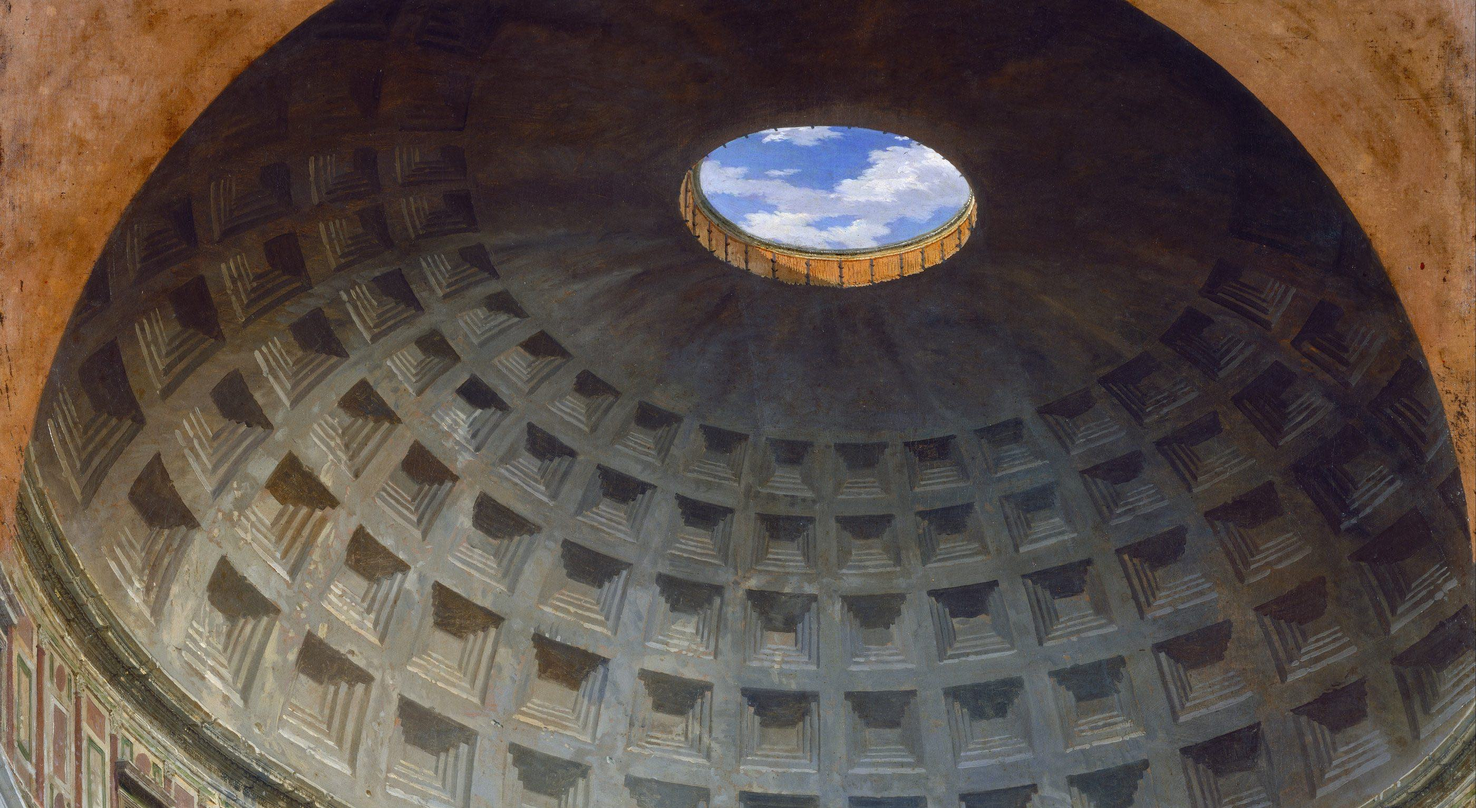
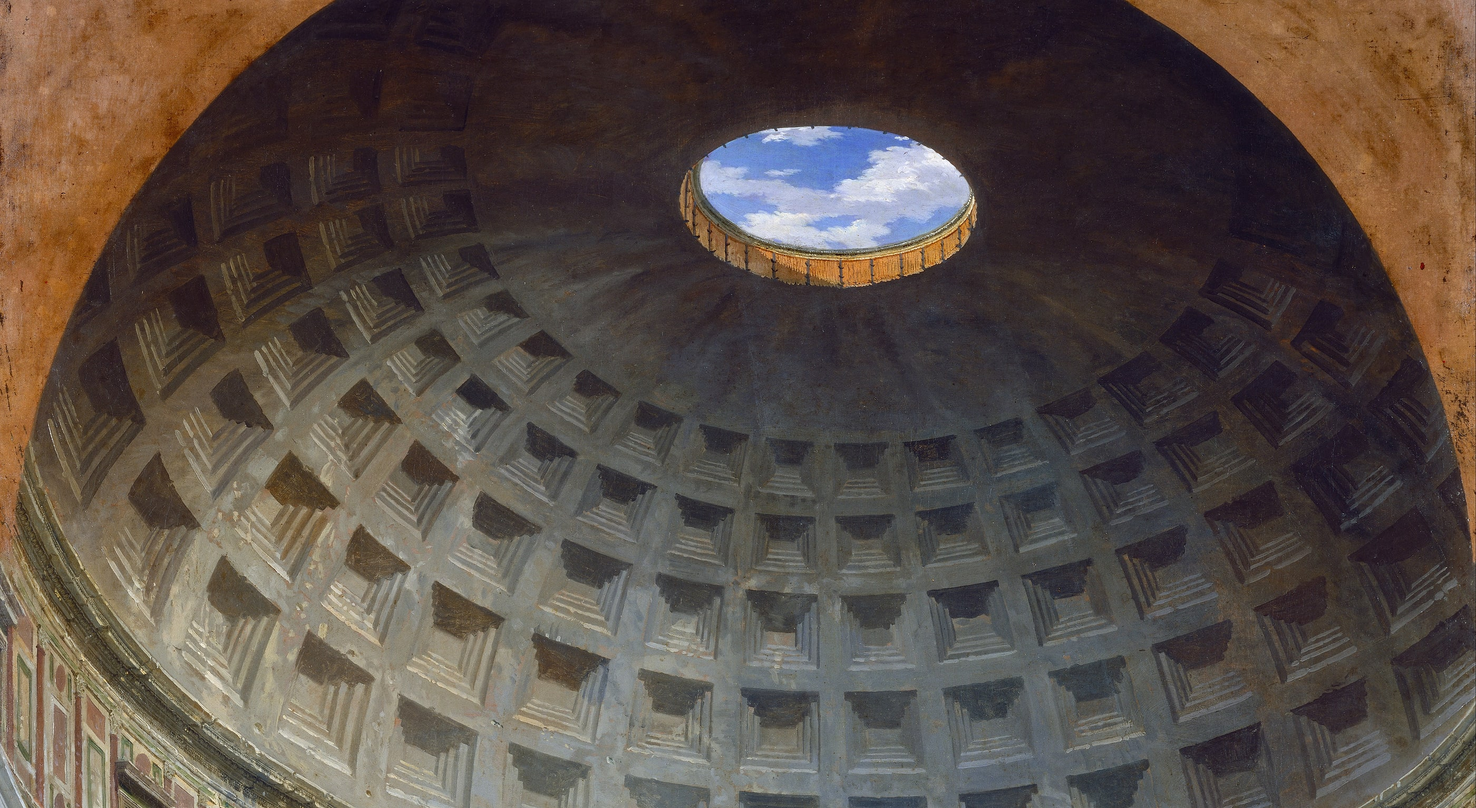
feat(v3.1): lighter hero painting, shade only behind the words; re-exported paintings
Owner option 1: brightness 0.95 and a soft ellipse behind the chip, title,
sub line and CTA plus a low band under the agent marks, on desktop and phone.
The six paintings are re-exported from the full scans (mozjpeg q88), so the
byte budgets in the token test rise to match.

diff --git a/apps/frontend/app/components/landing/Hero.tsx b/apps/frontend/app/components/landing/Hero.tsx
@@ -5,11 +5,12 @@ import { CTA_INSTALL, HERO_SUB, HERO_TITLE } from '../../../lib/earnkit/site-cop
 import Money from '../site/Money';
 
 /**
- * The readability shade over the painting: light at the top, clear through the arches, deep under the words. On a phone
- * the words start higher in a 560px hero (the chip at about 40%), so the deep stop rises to 44% there (QA item 7).
+ * The readability shade, only behind the words (owner "option 1", 2026-10-22): a soft ellipse centred on the chip,
+ * title, sub line and CTA, and a low band under the agent marks; the arches and their sky stay clear. On a phone the
+ * words fill more of a 560px hero, so the ellipse is wider and a little higher.
  */
 const SHADE =
-  'bg-[linear-gradient(180deg,var(--ek-s-hero-shade)_0%,var(--ek-s-hero-shade-clear)_16%,var(--ek-s-hero-shade-clear)_24%,var(--ek-s-hero-shade-deep)_44%,var(--ek-s-hero-shade-end)_100%)] md:bg-[linear-gradient(180deg,var(--ek-s-hero-shade)_0%,var(--ek-s-hero-shade-clear)_22%,var(--ek-s-hero-shade-clear)_48%,var(--ek-s-hero-shade-deep)_72%,var(--ek-s-hero-shade-end)_100%)]';
+  'bg-[radial-gradient(ellipse_86%_44%_at_50%_63%,var(--ek-s-hero-halo)_0%,var(--ek-s-hero-halo-mid)_55%,var(--ek-s-hero-shade-clear)_100%),linear-gradient(180deg,var(--ek-s-hero-shade-clear)_82%,var(--ek-s-hero-band)_100%)] md:bg-[radial-gradient(ellipse_44%_36%_at_50%_68%,var(--ek-s-hero-halo)_0%,var(--ek-s-hero-halo-mid)_55%,var(--ek-s-hero-shade-clear)_100%),linear-gradient(180deg,var(--ek-s-hero-shade-clear)_84%,var(--ek-s-hero-band)_100%)]';
 
 /** The white CTA: a soft warm glow at rest; on hover a 1px lift (not under reduced motion) and a white ring. */
 const CTA =

diff --git a/apps/frontend/lib/earnkit/v31-site-landing.test.ts b/apps/frontend/lib/earnkit/v31-site-landing.test.ts
@@ -280,6 +280,18 @@ test('(g) the hero painting: srcset of the three files, fetchpriority high; the 
   assert.match(src, /getScreenCTM\(\)/);
 });
 
+test('(g2) owner "option 1": the painting at brightness 0.95; the shade is an ellipse behind the words and a low band, never a full-height dark gradient', () => {
+  const h = html(LANDING);
+  assert.match(h.match(/<img[^>]*hero-eckersberg[^>]*>/)?.[0] ?? '', /brightness\(0\.95\)_saturate\(1\.04\)_contrast\(1\.04\)/);
+  const hero = h.slice(0, h.indexOf('</section>'));
+  const shade = hero.match(/<div aria-hidden="true" class="absolute inset-0 -z-\[1\] ([^"]+)"/)?.[1] ?? '';
+  // Phone and desktop: each one ellipse on the words plus a band under the marks.
+  assert.equal((shade.match(/radial-gradient\(ellipse_/g) ?? []).length, 2, shade);
+  assert.equal((shade.match(/var\(--ek-s-hero-band\)_100%/g) ?? []).length, 2, shade);
+  assert.doesNotMatch(shade, /hero-shade-deep|hero-shade-end/);
+  for (const t of ['heroHalo', 'heroHaloMid', 'heroBand'] as const) assert.match(SITE[t], /^rgba\(\d+,\d+,\d+,0\.\d+\)$/);
+});
+
 test('(h) the landing colours are SITE tokens: the new card text pairs pass 4.5:1', () => {
   const lum = (hex: string) => {
     const c = [1, 3, 5].map((i) => parseInt(hex.slice(i, i + 2), 16) / 255).map((v) => (v <= 0.03928 ? v / 12.92 : ((v + 0.055) / 1.055) ** 2.4));

diff --git a/apps/frontend/lib/earnkit/site-theme.ts b/apps/frontend/lib/earnkit/site-theme.ts
@@ -112,10 +112,11 @@ export const SITE = {
   footCtaGlow: 'rgba(255,150,70,0.5)',
   /** Task 6: the landing (Landing board): the hero's base, readability shade, title shadow and CTA glow; the arch light's dusk tint and sunset; the blue and rust program card borders. */
   heroBase: '#0B0907',
-  heroShade: 'rgba(8,7,14,0.35)',
   heroShadeClear: 'rgba(8,7,14,0)',
-  heroShadeDeep: 'rgba(8,7,14,0.72)',
-  heroShadeEnd: 'rgba(5,6,13,0.96)',
+  /** Owner "option 1" (2026-10-22): the shade only behind the words, a halo (centre, mid) and a low band under the agent marks. */
+  heroHalo: 'rgba(8,7,14,0.62)',
+  heroHaloMid: 'rgba(8,7,14,0.38)',
+  heroBand: 'rgba(5,6,13,0.55)',
   /** QA item 7: the hero's money chip on a phone, a dark glass so its words hold over the painting's sky. */
   heroChipPhone: 'rgba(8,7,14,0.42)',
   heroTitleShadow: 'rgba(5,6,13,0.7)',

diff --git a/apps/frontend/tailwind.config.ts b/apps/frontend/tailwind.config.ts
@@ -133,10 +133,10 @@ export default {
         's-foot-glow-mid': 'var(--ek-s-foot-glow-mid)',
         's-foot-cta-glow': 'var(--ek-s-foot-cta-glow)',
         's-hero-base': 'var(--ek-s-hero-base)',
-        's-hero-shade': 'var(--ek-s-hero-shade)',
         's-hero-shade-clear': 'var(--ek-s-hero-shade-clear)',
-        's-hero-shade-deep': 'var(--ek-s-hero-shade-deep)',
-        's-hero-shade-end': 'var(--ek-s-hero-shade-end)',
+        's-hero-halo': 'var(--ek-s-hero-halo)',
+        's-hero-halo-mid': 'var(--ek-s-hero-halo-mid)',
+        's-hero-band': 'var(--ek-s-hero-band)',
         's-hero-chip-phone': 'var(--ek-s-hero-chip-phone)',
         's-hero-title-shadow': 'var(--ek-s-hero-title-shadow)',
         's-cta-glow': 'var(--ek-s-cta-glow)',

diff --git a/apps/frontend/lib/earnkit/v31-site-tokens.test.ts b/apps/frontend/lib/earnkit/v31-site-tokens.test.ts
@@ -96,10 +96,10 @@ const jpegWidth = (b: Buffer): number | null => {
 
 test('(d) the six paintings are JPEGs at their widths and under their byte budgets', () => {
   const files: [string, number, number][] = [
-    ['hero-eckersberg-3200.jpg', 3200, 900_000],
-    ['hero-eckersberg-1600.jpg', 1600, 300_000],
+    ['hero-eckersberg-3200.jpg', 3200, 1_700_000],
+    ['hero-eckersberg-1600.jpg', 1600, 400_000],
     ['hero-eckersberg-800.jpg', 800, 110_000],
-    ['foot-panini-2800.jpg', 2800, 600_000],
+    ['foot-panini-2800.jpg', 2800, 1_000_000],
     ['foot-panini-1400.jpg', 1400, 220_000],
     ['foot-panini-700.jpg', 700, 80_000],
   ];

diff --git a/apps/frontend/app/globals.css b/apps/frontend/app/globals.css
@@ -130,10 +130,10 @@
   --ek-s-foot-glow-mid: rgba(255,160,110,0.10);
   --ek-s-foot-cta-glow: rgba(255,150,70,0.5);
   --ek-s-hero-base: #0B0907;
-  --ek-s-hero-shade: rgba(8,7,14,0.35);
   --ek-s-hero-shade-clear: rgba(8,7,14,0);
-  --ek-s-hero-shade-deep: rgba(8,7,14,0.72);
-  --ek-s-hero-shade-end: rgba(5,6,13,0.96);
+  --ek-s-hero-halo: rgba(8,7,14,0.62);
+  --ek-s-hero-halo-mid: rgba(8,7,14,0.38);
+  --ek-s-hero-band: rgba(5,6,13,0.55);
   --ek-s-hero-chip-phone: rgba(8,7,14,0.42);
   --ek-s-hero-title-shadow: rgba(5,6,13,0.7);
   --ek-s-cta-glow: rgba(255,150,90,0.30);

diff --git a/apps/frontend/app/components/landing/HeroArt.tsx b/apps/frontend/app/components/landing/HeroArt.tsx
@@ -74,7 +74,7 @@ export default function HeroArt() {
         fetchPriority="high"
         decoding="async"
         alt=""
-        className={`${LAYER} object-cover [filter:brightness(0.82)_saturate(1.04)_contrast(1.04)]`}
+        className={`${LAYER} object-cover [filter:brightness(0.95)_saturate(1.04)_contrast(1.04)]`}
       />
       <svg ref={svg} viewBox="0 0 1600 1036" preserveAspectRatio="xMidYMid slice" aria-hidden="true" className={LAYER}>
         <defs>

diff --git a/apps/frontend/DESIGN.md b/apps/frontend/DESIGN.md
@@ -76,7 +76,8 @@ White pill `PILL_WHITE` and blue pill `PILL_BLUE` are 44px tall.
 ## Paintings
 
 Plain `<img srcSet>` of pre-sized JPEGs in `public/art` (no Next image optimizer: no new paid service, one file per
-width, cached by the CDN). Public domain, from the Google Art Project scans.
+width, cached by the CDN). Public domain, from the Google Art Project scans. Re-exported 2026-10-22 from the full scans
+(Panini from the 5401px Google Art Project scan), lanczos3 and a light sharpen, mozjpeg q88.
 
 | Where | Painting | Files |
 |---|---|---|
@@ -85,6 +86,9 @@ width, cached by the CDN). Public domain, from the Google Art Project scans.
 
 The footer's headline sits under the oculus at every width (the crop is 45% down from md and 59% across on a phone, the
 headline block drops below it), never on the bright sky. The footer's credit line is `site-copy.ts ART_CREDIT`: "Art: C.W. Eckersberg, 1815 · G.P. Panini, c. 1734". The hero
+painting sits at `brightness(0.95) saturate(1.04) contrast(1.04)` so the art reads crisp, with a shade only behind the
+words (owner "option 1", 2026-10-22): a soft ellipse centred on the chip, title, sub line and CTA (`hero-halo` to
+`hero-halo-mid` to clear) and a low band under the agent marks (`hero-band`); the arches and sky stay clear. It
 adds an SVG arch clip path and a sunset circle that follows the mouse; the footer a faint warm light that follows
 the mouse. The footer's only social link is X, https://x.com/EarnKitAI (owner-confirmed 2026-10-22).
 
@@ -100,8 +104,10 @@ Under `prefers-reduced-motion` all of them stop, and the pointer components atta
 Designed at 390px: no horizontal scroll, 16px side gutters (`px-4`), every tap target 44px or taller (a text link
 inside a line uses `INLINE_LINK`'s 44px hit area), 2-up feed stats, the profile's cards 28px radius, rails that wrap.
 A rail that scrolls sideways instead (feed weeks, leaderboard filters, the install sheet's agent tabs) fades its cut edge
-over 40px while it overflows (`FadeRail`, `SegTabs RAIL_FADE`). The landing hero's shade rises on a phone (deep from 44%,
-not 72%) and its money chip is dark glass (`hero-chip-phone`), so the chip, title and sub line hold over the painting.
+over 40px while it overflows (`FadeRail`, `SegTabs RAIL_FADE`). The landing hero's ellipse is wider and higher on a phone (86% by
+44% at 63%, not 44% by 36% at 68%) and its money chip is dark glass (`hero-chip-phone`), so the chip, title and sub
+line hold over the painting (measured 2026-10-22 from screenshots, 95th-percentile background: chip 4.86:1, sub 9.29:1
+at 1440; chip 9.24:1, sub 7.85:1 at 390).
 Checked at 1440x900 and 390x844 for every page (`v31-site-sweep.test.ts` and the SDD screenshots).
 
 ## Contrast
